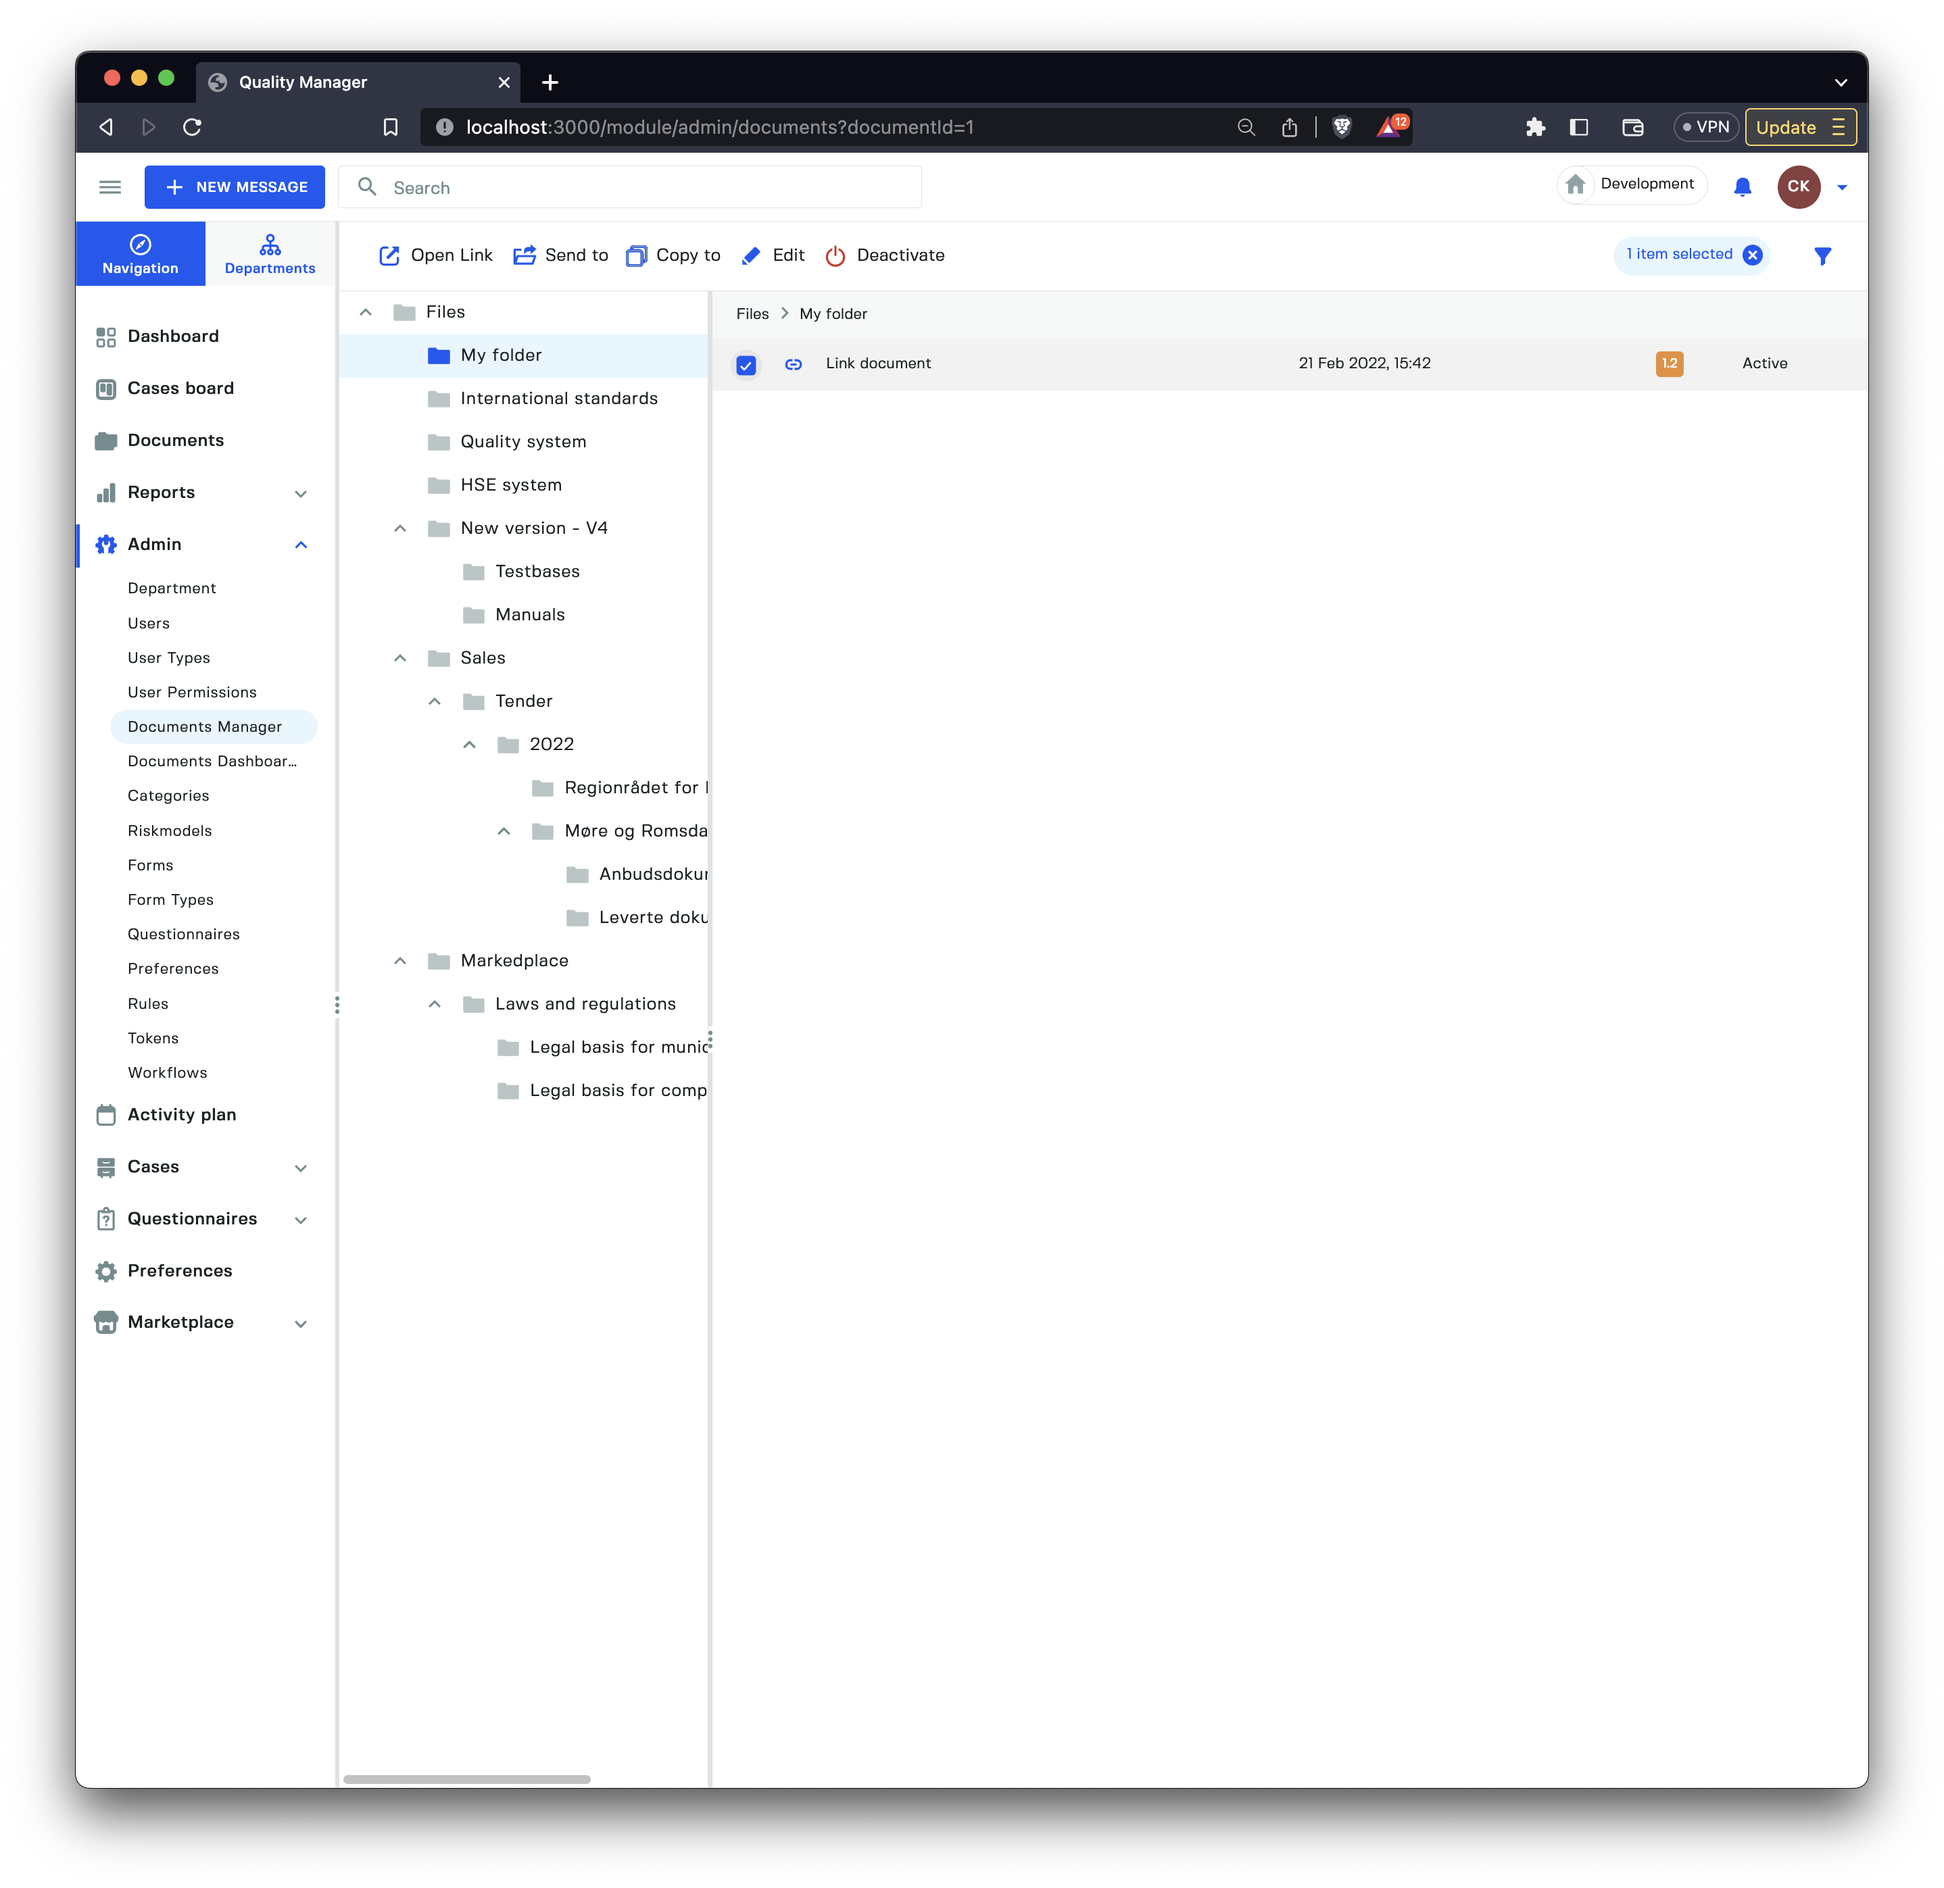
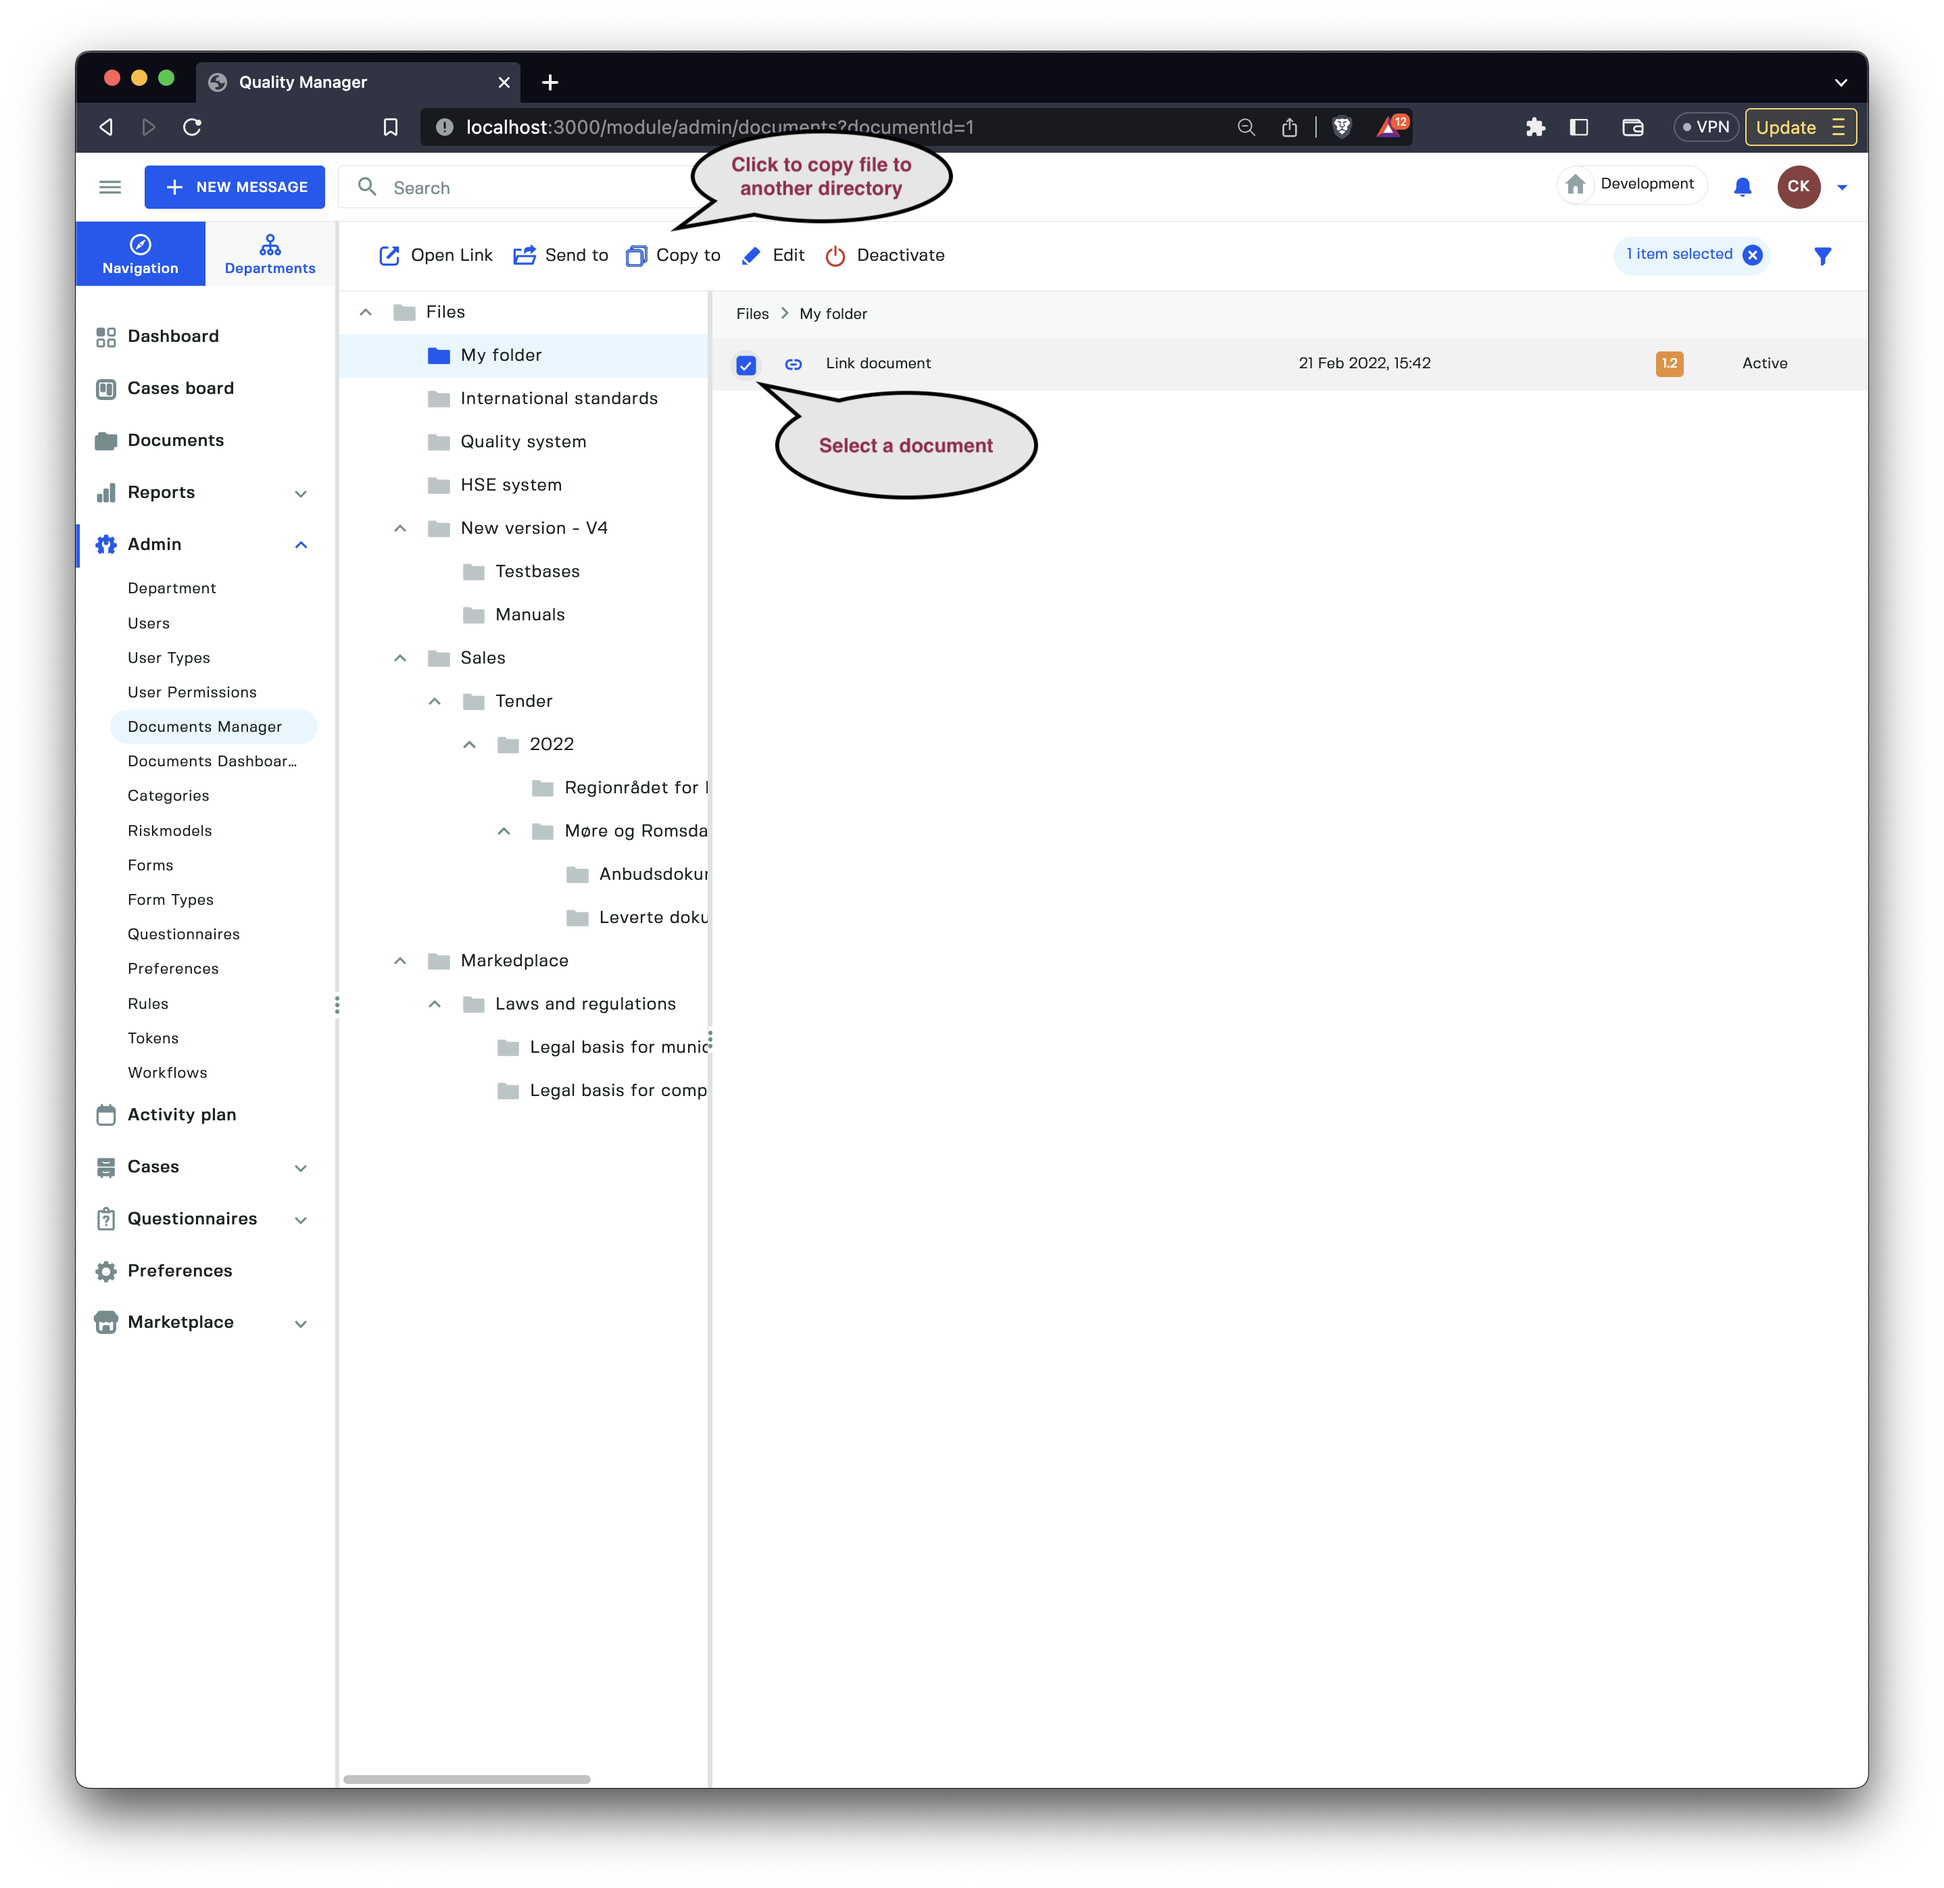
Draft of document manager docs

Changed region(s): [[0.4023, 0.1868, 0.557, 0.2802], [0.3404, 0.0623, 0.4951, 0.1246]]

diff --git a/content/en/docs/userguide/document_manager.md b/content/en/docs/userguide/document_manager.md
@@ -60,6 +60,8 @@ When one or more files are dropped on the document folder upload dialog pops up 
 | `Visibility` | Set the visibility of the documents uploaded. |
 | `Workflow` | Select the workflow all the uploaded documents will be associated with. | 
 
+> One can also use the `Upload` button to upload files instead of dragging and dropping files.
+
 ## Create a new Document
 
 {{< figure src="/images/document_manager/document_manager_19.png" caption="Create document view" width="1024">}}
@@ -107,7 +109,7 @@ On the `Title and description` tab we can change the `title`, `description`for a
 
 > All documents in Q support multiple languages allowing you to keep all language versions of a procedure bundled into one managable case. For example you might have production process that needs to be available in Norwegian and English.
 
-### Create a new `Text document`
+### Create a new **Text document**
 
 {{< figure src="/images/document_manager/document_manager_24.png" caption="document_manager_24.png" width="1024">}}
 
@@ -117,7 +119,7 @@ The `Text document` has a `Content` tab that allows us to edit the document.
 
 The content editor lets us edit HTML like content with a basic set of formatting options.
 
-### Create a new `Link document`
+### Create a new **Link document**
 
 {{< figure src="/images/document_manager/document_manager_25.png" caption="document_manager_25.png" width="1024">}}
 
@@ -125,17 +127,106 @@ The special area for a `Link` document is udner the `Title and description` tab 
 
 > Its possible to provide multiple links in the same document case one for each language.
 
-### Create a new `Process chart document`
+### Create a new **Process chart document**
 
-### Create a new `Richtext document`
+{{< figure src="/images/document_manager/document_manager_32.png" caption="document_manager_32.png" width="1024">}}
 
-### Create a new `Spreadsheet document`
+The process chart tool lets you create simple process charts that you can store as documents, embed in dashboards. You can also link to other documents making clickable maps.
+
+### Create a new **Richtext document**
+
+{{< figure src="/images/document_manager/document_manager_33.png" caption="document_manager_33.png" width="1024">}}
+
+A more Microsoft Word like interface for richer documents.
+
+### Create a new **Spreadsheet document**
+
+A basic Excel like interface for richer spreadsheets.
+
+{{< figure src="/images/document_manager/document_manager_34.png" caption="document_manager_34.png" width="1024">}}
+
+## Editing an existing Document
+
+{{< figure src="/images/document_manager/document_manager_42.png" caption="document_manager_42.png" width="1024">}}
+
+When working with documents it's important to understand that there are two main states documents exist in.
+
+| State | Description |
+| --- | --- |
+| `Draft` | When you are working on a document and making changes then clicking the `Save` button we save a draft version that is not visible to end users. To make the changes visible one has to explicitly publish the document. |
+| `Published` | A published document is a document visible to end users. This lets you make changes to a document in private and only publish when ready. |
+
+A document can also be marked as a `Template` allowing you to use this document as a basis for a new document. When creating a new document from a `Template` it will be created from the latest `Published` version.
+
+> Click the `New Version` button to create a new version. This button is only enabled when the current document is in a `closed` state and will reset the workflow to the start again, letting you start another version of the document.
+
+## Copy Document to Another Directory
 
 {{< figure src="/images/document_manager/document_manager_6.png" caption="document_manager_6.png" width="1024">}}
+
+Select a document. Once a document is selected the toolbar changes allowing you to click the `Copy to` button.
+
 {{< figure src="/images/document_manager/document_manager_7.png" caption="document_manager_7.png" width="1024">}}
+
+Select a target directory and click the `Select` button to make a copy of the document into another folder.
+
+## Move Document to Another Directory
+
 {{< figure src="/images/document_manager/document_manager_8.png" caption="document_manager_8.png" width="1024">}}
-{{< figure src="/images/document_manager/document_manager_9.png" caption="document_manager_9.png" width="1024">}}
+
+To move a document to a new folder, click on the `Send to` button and then select a destination folder for the file.
+
+## Import Documents from SharePoint
+
 {{< figure src="/images/document_manager/document_manager_10.png" caption="document_manager_10.png" width="1024">}}
-{{< figure src="/images/document_manager/document_manager_12.png" caption="document_manager_12.png" width="1024">}}
-{{< figure src="/images/document_manager/document_manager_13.png" caption="document_manager_13.png" width="1024">}}
-{{< figure src="/images/document_manager/document_manager_15.png" caption="document_manager_15.png" width="1024">}}
+
+If `Sharepoint` is enabled as an integration point for your organization you'll have access to an `Import` button letting you import documents from configured `Sharepoint` shares.
+
+{{< figure src="/images/document_manager/document_manager_36.png" caption="document_manager_36.png" width="1024">}}
+
+When importing documents from `Sharepoint` we need to enter several fields outlined below.
+
+| Field | Description |
+| --- | --- |
+| `Site` | Select the `Sharepoint` site (share) to import documents from. |
+| `Documents` | Brings up the document navigator allowing you to select the `Sharepoint` documents to import. |
+| `Import to` | Set the visibility, department and document folder for all the imported documents. |
+| `Workflow` | Set the associated document workflow to use with all the imported documents. |
+| `Synchronize updates` | Specify if `Q` will intermittently query `Sharepoint` to check if there are new versions of the documents and import the updated documents automatically. |
+
+Clicking the `Document` button will bring up a file manager allowing you to select documents from the specified `Sharepoint Site`.
+
+{{< figure src="/images/document_manager/document_manager_37.png" caption="document_manager_37.png" width="1024">}}
+
+Once you've selected the files you wish to import, click the `Confirm` button to go back to the `Import from Sharepoint` dialog.
+
+{{< figure src="/images/document_manager/document_manager_38.png" caption="document_manager_38.png" width="1024">}}
+
+To finish the import click the `Import` button.
+
+{{< figure src="/images/document_manager/document_manager_31.png" caption="document_manager_31.png" width="1024">}}
+
+As we can see the imported files from `Sharepoint` have a `Sharepoint logo` and symbol signaling that this as import from `Sharepoint`.
+
+## Export Documents from SharePoint
+
+{{< figure src="/images/document_manager/document_manager_39.png" caption="document_manager_39.png" width="1024">}}
+
+Select one or more files and if your organization has `Sharepoint` enabled the user wille see an `Export` button allowing them to export the selected documents to `Sharepoint`.
+
+{{< figure src="/images/document_manager/document_manager_40.png" caption="document_manager_40.png" width="1024">}}
+
+When exporting documents from `Sharepoint` we need to enter several fields outlined below.
+
+| Field | Description |
+| --- | --- |
+| `Site` | Select the `Sharepoint` site (share) to export documents to. |
+| `Documents` | The list of documents being exported to Sharepoint. |
+| `Document folder` | The target Sharepoint folder for the exported documents. |
+| `Synchronize updates` | When checked `Q` will updated documents to Sharepoint automatically, keeping them in sync. |
+
+Finally click on the `Export` button to finalize the export of documents to `Sharepoint`.
+
+{{< figure src="/images/document_manager/document_manager_41.png" caption="document_manager_41.png" width="1024">}}
+
+Once you've exported the documents they will be visible in the document manager with a `Sharepoint` symbol and an `Export` symbol.
